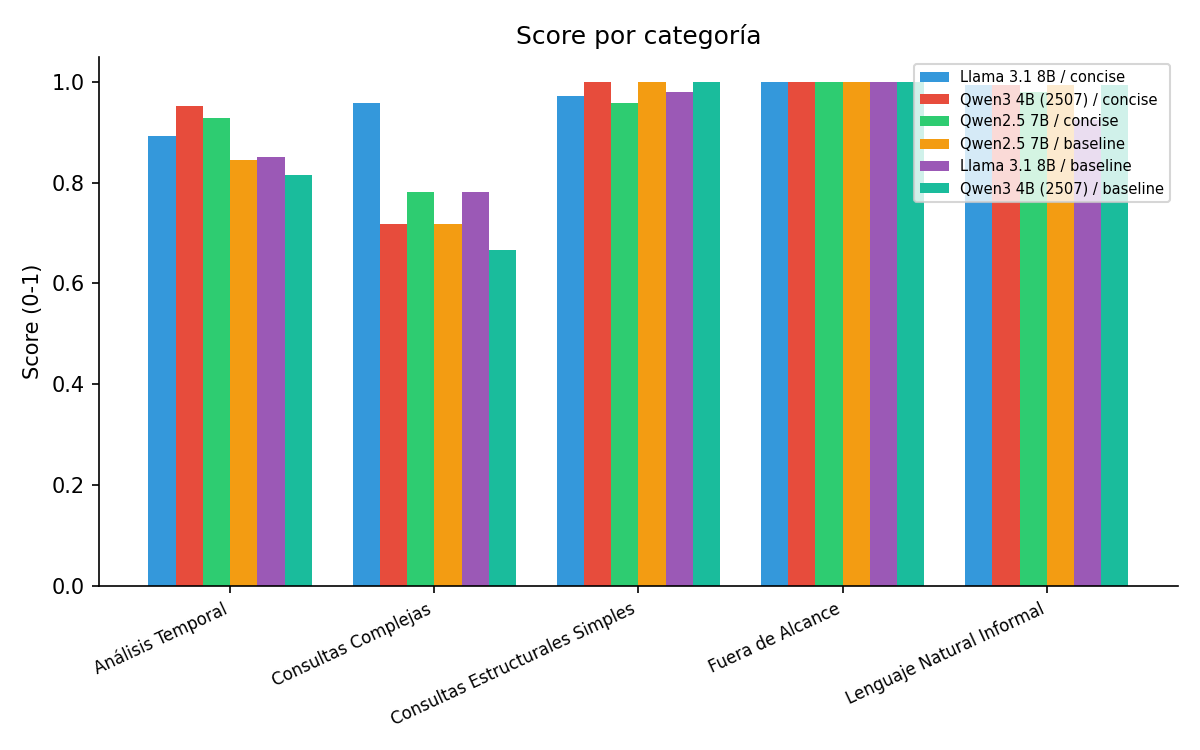
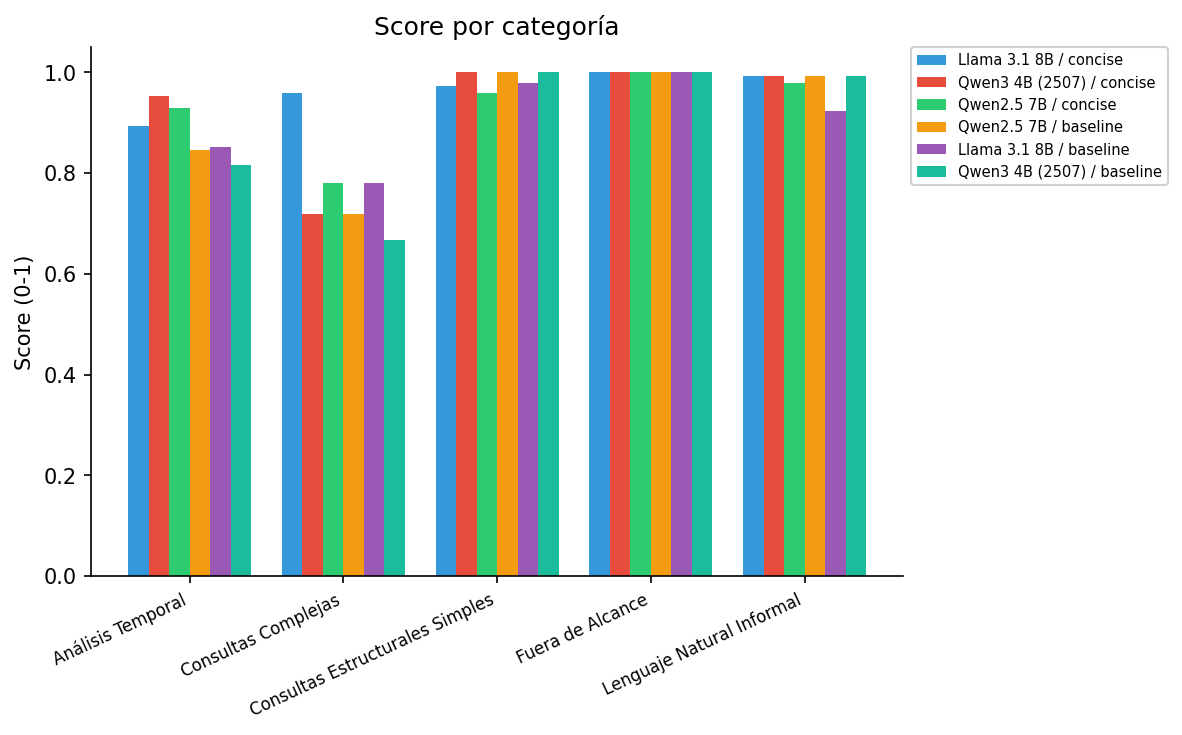
fix: charts display

diff --git a/evaluation/scripts/evaluate_generation.py b/evaluation/scripts/evaluate_generation.py
@@ -358,7 +358,7 @@ def _grouped_bar(ax: Any, labels: List[str], series: List[Dict[str, Any]], title
     ax.set_xticklabels(labels, rotation=25, ha="right", fontsize=8)
     ax.set_ylabel(ylabel)
     ax.set_title(title)
-    ax.legend(fontsize=7, loc="upper right")
+    ax.legend(fontsize=7, loc="upper left", bbox_to_anchor=(1.01, 1.0), framealpha=0.9, borderaxespad=0.0)
     ax.spines[["top", "right"]].set_visible(False)
 
 
@@ -377,11 +377,11 @@ def generate_charts(results: List[Dict[str, Any]], images_dir: Path) -> Dict[str
     ax.set_ylim(0, 1.05)
     ax.set_ylabel("Score (0-1)")
     ax.set_title("Calidad global y manejo de centinelas")
-    ax.legend(fontsize=8)
+    ax.legend(fontsize=8, loc="upper left", bbox_to_anchor=(1.01, 1.0), framealpha=0.9, borderaxespad=0.0)
     ax.spines[["top", "right"]].set_visible(False)
     fig.tight_layout()
     p = images_dir / "chart_overall.png"
-    fig.savefig(p, dpi=150)
+    fig.savefig(p, dpi=150, bbox_inches="tight")
     plt.close(fig)
     paths["overall"] = p
 
@@ -394,7 +394,7 @@ def generate_charts(results: List[Dict[str, Any]], images_dir: Path) -> Dict[str
     ax.set_ylim(0, 1.05)
     fig.tight_layout()
     p = images_dir / "chart_dimensions.png"
-    fig.savefig(p, dpi=150)
+    fig.savefig(p, dpi=150, bbox_inches="tight")
     plt.close(fig)
     paths["dimensions"] = p
 
@@ -408,7 +408,7 @@ def generate_charts(results: List[Dict[str, Any]], images_dir: Path) -> Dict[str
     ax.set_ylim(0, 1.05)
     fig.tight_layout()
     p = images_dir / "chart_categories.png"
-    fig.savefig(p, dpi=150)
+    fig.savefig(p, dpi=150, bbox_inches="tight")
     plt.close(fig)
     paths["categories"] = p
 
@@ -421,11 +421,11 @@ def generate_charts(results: List[Dict[str, Any]], images_dir: Path) -> Dict[str
     ax.set_xticklabels(combo_labels, rotation=25, ha="right", fontsize=8)
     ax.set_ylabel("Segundos")
     ax.set_title("Latencia de generación por combinación")
-    ax.legend(fontsize=8)
+    ax.legend(fontsize=8, loc="upper left", bbox_to_anchor=(1.01, 1.0), framealpha=0.9, borderaxespad=0.0)
     ax.spines[["top", "right"]].set_visible(False)
     fig.tight_layout()
     p = images_dir / "chart_latency.png"
-    fig.savefig(p, dpi=150)
+    fig.savefig(p, dpi=150, bbox_inches="tight")
     plt.close(fig)
     paths["latency"] = p
 

diff --git a/evaluation/scripts/evaluate_all_llms.py b/evaluation/scripts/evaluate_all_llms.py
@@ -174,7 +174,7 @@ def _grouped_bar(
     ax.set_ylim(0, 1.05)
     ax.set_ylabel("F1 Score")
     ax.set_title(title)
-    ax.legend(fontsize=7, loc="upper right")
+    ax.legend(fontsize=7, loc="upper left", bbox_to_anchor=(1.01, 1.0), framealpha=0.9, borderaxespad=0.0)
     ax.spines[["top", "right"]].set_visible(False)
 
 
@@ -217,7 +217,7 @@ def generate_charts(results: List[Dict[str, Any]], images_dir: Path) -> Dict[str
     _grouped_bar(ax, ["Entidades", "Relaciones"], series_overall, "F1 Macro Global por Modelo")
     fig.tight_layout()
     p = images_dir / "chart_overall.png"
-    fig.savefig(p, dpi=150)
+    fig.savefig(p, dpi=150, bbox_inches="tight")
     plt.close(fig)
     paths["overall"] = p
 
@@ -225,7 +225,7 @@ def generate_charts(results: List[Dict[str, Any]], images_dir: Path) -> Dict[str
     _grouped_bar(ax, all_labels, series_entity, "F1 por Tipo de Entidad")
     fig.tight_layout()
     p = images_dir / "chart_entities.png"
-    fig.savefig(p, dpi=150)
+    fig.savefig(p, dpi=150, bbox_inches="tight")
     plt.close(fig)
     paths["entities"] = p
 
@@ -233,7 +233,7 @@ def generate_charts(results: List[Dict[str, Any]], images_dir: Path) -> Dict[str
     _grouped_bar(ax, all_rel_types, series_rel, "F1 por Tipo de Relación")
     fig.tight_layout()
     p = images_dir / "chart_relations.png"
-    fig.savefig(p, dpi=150)
+    fig.savefig(p, dpi=150, bbox_inches="tight")
     plt.close(fig)
     paths["relations"] = p
 
